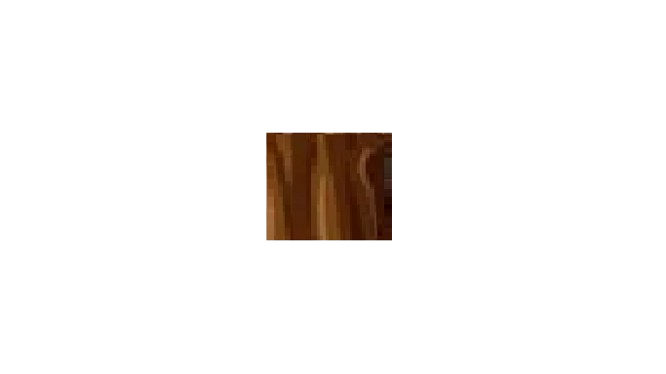
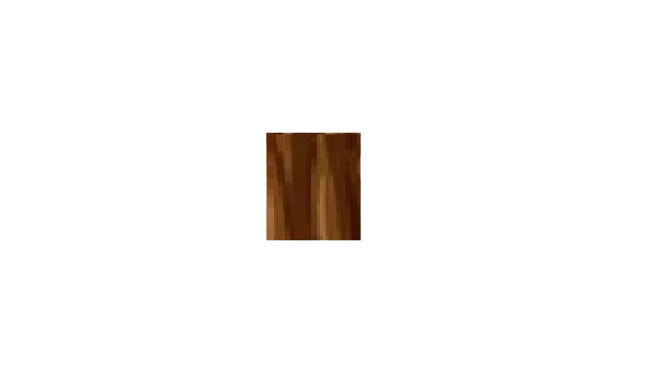
updating png's and bug fixing

Changed region(s): [[0.5405, 0.3529, 0.6006, 0.6471]]

diff --git a/Projects/Game1/code/Timber.cpp b/Projects/Game1/code/Timber.cpp
@@ -26,6 +26,8 @@ void updateBranches(int seed) {
 		branchPositions[0] = Side::NONE;
 	}
 }
+Side playerSide = Side::LEFT;
+bool acceptInput = true;
 // Game Start 
 int main()
 {
@@ -59,7 +61,7 @@ int main()
 	Sprite spriteTree;
 	spriteTree.setTexture(textureTree);
 	spriteTree.setScale(1.5f, 1.5f);
-	spriteTree.setPosition(860, -400);
+	spriteTree.setPosition(840, -400);
 
 	//Creating the bee
 	Texture textureBee;
@@ -120,8 +122,7 @@ int main()
 	//Set player scale
 	spritePlayer.setScale(0.8f, 0.8f);
 	//Starts player on left side of screen
-	spritePlayer.setPosition(580, 700);
-	Side playerSide = Side::LEFT; 
+	spritePlayer.setPosition(580, 700); 
 
 	//Gravestone sprite
 	Texture textureGravestone;
@@ -142,11 +143,12 @@ int main()
 	int score = 0;
 	float timeRemaining = 10.0f; 
 		bool playerDead = false;
-		bool acceptInput = true;
+		bool isDucking = false;
+		const float playerGroundY = 700.f;
 	Clock clock;
 
 	//Make branches align with trunk
-	const float trunkX = 860.0f - 50.0f;
+	const float trunkX = 860.0f + 35.0f;
 	//Make base of tree ground level
 	const float baseY = 720.0f;
 	//Distance between each branch
@@ -161,9 +163,35 @@ int main()
 				window.close();
 			if (event.type == Event::KeyReleased && !playerDead)
 			{
-				acceptInput = true;
-				//Reset player position
-				spritePlayer.setPosition(580, 720);
+				//Actions
+				if (event.key.code == Keyboard::Right) {
+					//Chop to the right
+					playerSide = Side::RIGHT;
+					score++;
+					timeRemaining += 0.15f;
+					spritePlayer.setPosition(1200, 720);
+					updateBranches(score);
+					
+					//Set log to fly out
+					logActive = true;
+					spriteLog.setPosition(860, 720);
+					logSpeedX = 1000.0f;
+					logSpeedY = -500.0f;
+				}
+				else if (event.key.code == Keyboard::Left) {
+					//Chop to the left
+					playerSide = Side::LEFT;
+					score++;
+					timeRemaining += .15f;
+					spritePlayer.setPosition(580, 720);
+					updateBranches(score);
+
+					logActive = true;
+					spriteLog.setPosition(860, 720);
+					logSpeedX = -1000.0f;
+					logSpeedY = -500.0f;
+				}
+			
 			}
 		}
 
@@ -171,46 +199,6 @@ int main()
 		if (!playerDead) timeRemaining -= dt.asSeconds();
 		if (timeRemaining <= 0 && !playerDead) {
 			playerDead = true;
-		}
-
-		//Actions
-		if (Keyboard::isKeyPressed(Keyboard::Escape))
-		{
-			window.close();
-		}
-		if (!playerDead) {
-			//Chop to the right
-			if (acceptInput && Keyboard::isKeyPressed(Keyboard::Right))
-			{
-				acceptInput = false;
-				playerSide = Side::RIGHT;
-				score++;
-				timeRemaining += 0.15f;
-				spritePlayer.setPosition(1200, 720);
-				updateBranches(score);
-
-				//Set log to fly out
-				logActive = true;
-				spriteLog.setPosition(860, 720);
-				logSpeedX = 1000.0f;
-				logSpeedY = -500.0f;
-			}
-
-			//Chop to the left
-			if (acceptInput && Keyboard::isKeyPressed(Keyboard::Left))
-			{
-				acceptInput = false;
-				playerSide = Side::LEFT;
-				score++;
-				timeRemaining += .15f;
-				spritePlayer.setPosition(580, 720);
-				updateBranches(score);
-
-				logActive = true;
-				spriteLog.setPosition(860, 720);
-				logSpeedX = -1000.0f;
-				logSpeedY = -500.0f;
-			}
 		}
 
 		//Move log
@@ -224,9 +212,20 @@ int main()
 		}
 
 		//Duck to avoid bee obstacle
-		if (!playerDead && Keyboard::isKeyPressed(Keyboard::Down))
-		{
-			spritePlayer.move(0, 50);
+		if (!playerDead){
+			if (Keyboard::isKeyPressed(Keyboard::Down))
+			{
+				if (!isDucking) {
+					spritePlayer.move(0, 50);
+					isDucking = true;
+				}
+			}
+			else {
+				if (isDucking) {
+					spritePlayer.setPosition(spritePlayer.getPosition().x, playerGroundY);
+					isDucking = false;
+				}
+			}
 		}
 
 		//Setup bee
@@ -236,7 +235,7 @@ int main()
 			beeSpeed = (rand() % 200) + 200;
 			//Bee height
 			srand((int)time(0) * 10);
-			float height = (rand() % 500) + 500;
+			float height = 630.f;
 			spriteBee.setPosition(2000, height);
 			beeActive = true;
 		}
@@ -325,6 +324,7 @@ int main()
 				cloud3Active = false;
 			}
 		}
+		//Obstacles
 		if (!playerDead && branchPositions[NUM_BRANCHES - 1] == playerSide) {
 			//Game over
 			playerDead = true;
@@ -347,14 +347,22 @@ int main()
 		window.draw(spriteTree);
 
 		//Draw tree branches
+		const float trunkX = 860.0f;
+		const float baseY = 720.0f;
+		const float slotHeight = 250.0f;
+
 		for (int i = 0; i < NUM_BRANCHES; ++i) {
 			if (branchPositions[i] != Side::NONE) {
-				float y = baseY - (NUM_BRANCHES - 1 - i) * slotHeight;
-				branches[i].setPosition(trunkX, y);
-				if (branchPositions[i] == Side::LEFT) 
+				float branchY = baseY - ((NUM_BRANCHES - 1 - i)* slotHeight);
+
+				if (branchPositions[i] == Side::LEFT) {
+					branches[i].setPosition(trunkX - -62.0f, branchY);
 					branches[i].setRotation(180);
-				else 
+				}
+				else if (branchPositions[i] == Side::RIGHT) {
+					branches[i].setPosition(trunkX + 366.0f, branchY);
 					branches[i].setRotation(0);
+				}
 				window.draw(branches[i]);
 			}
 		}
